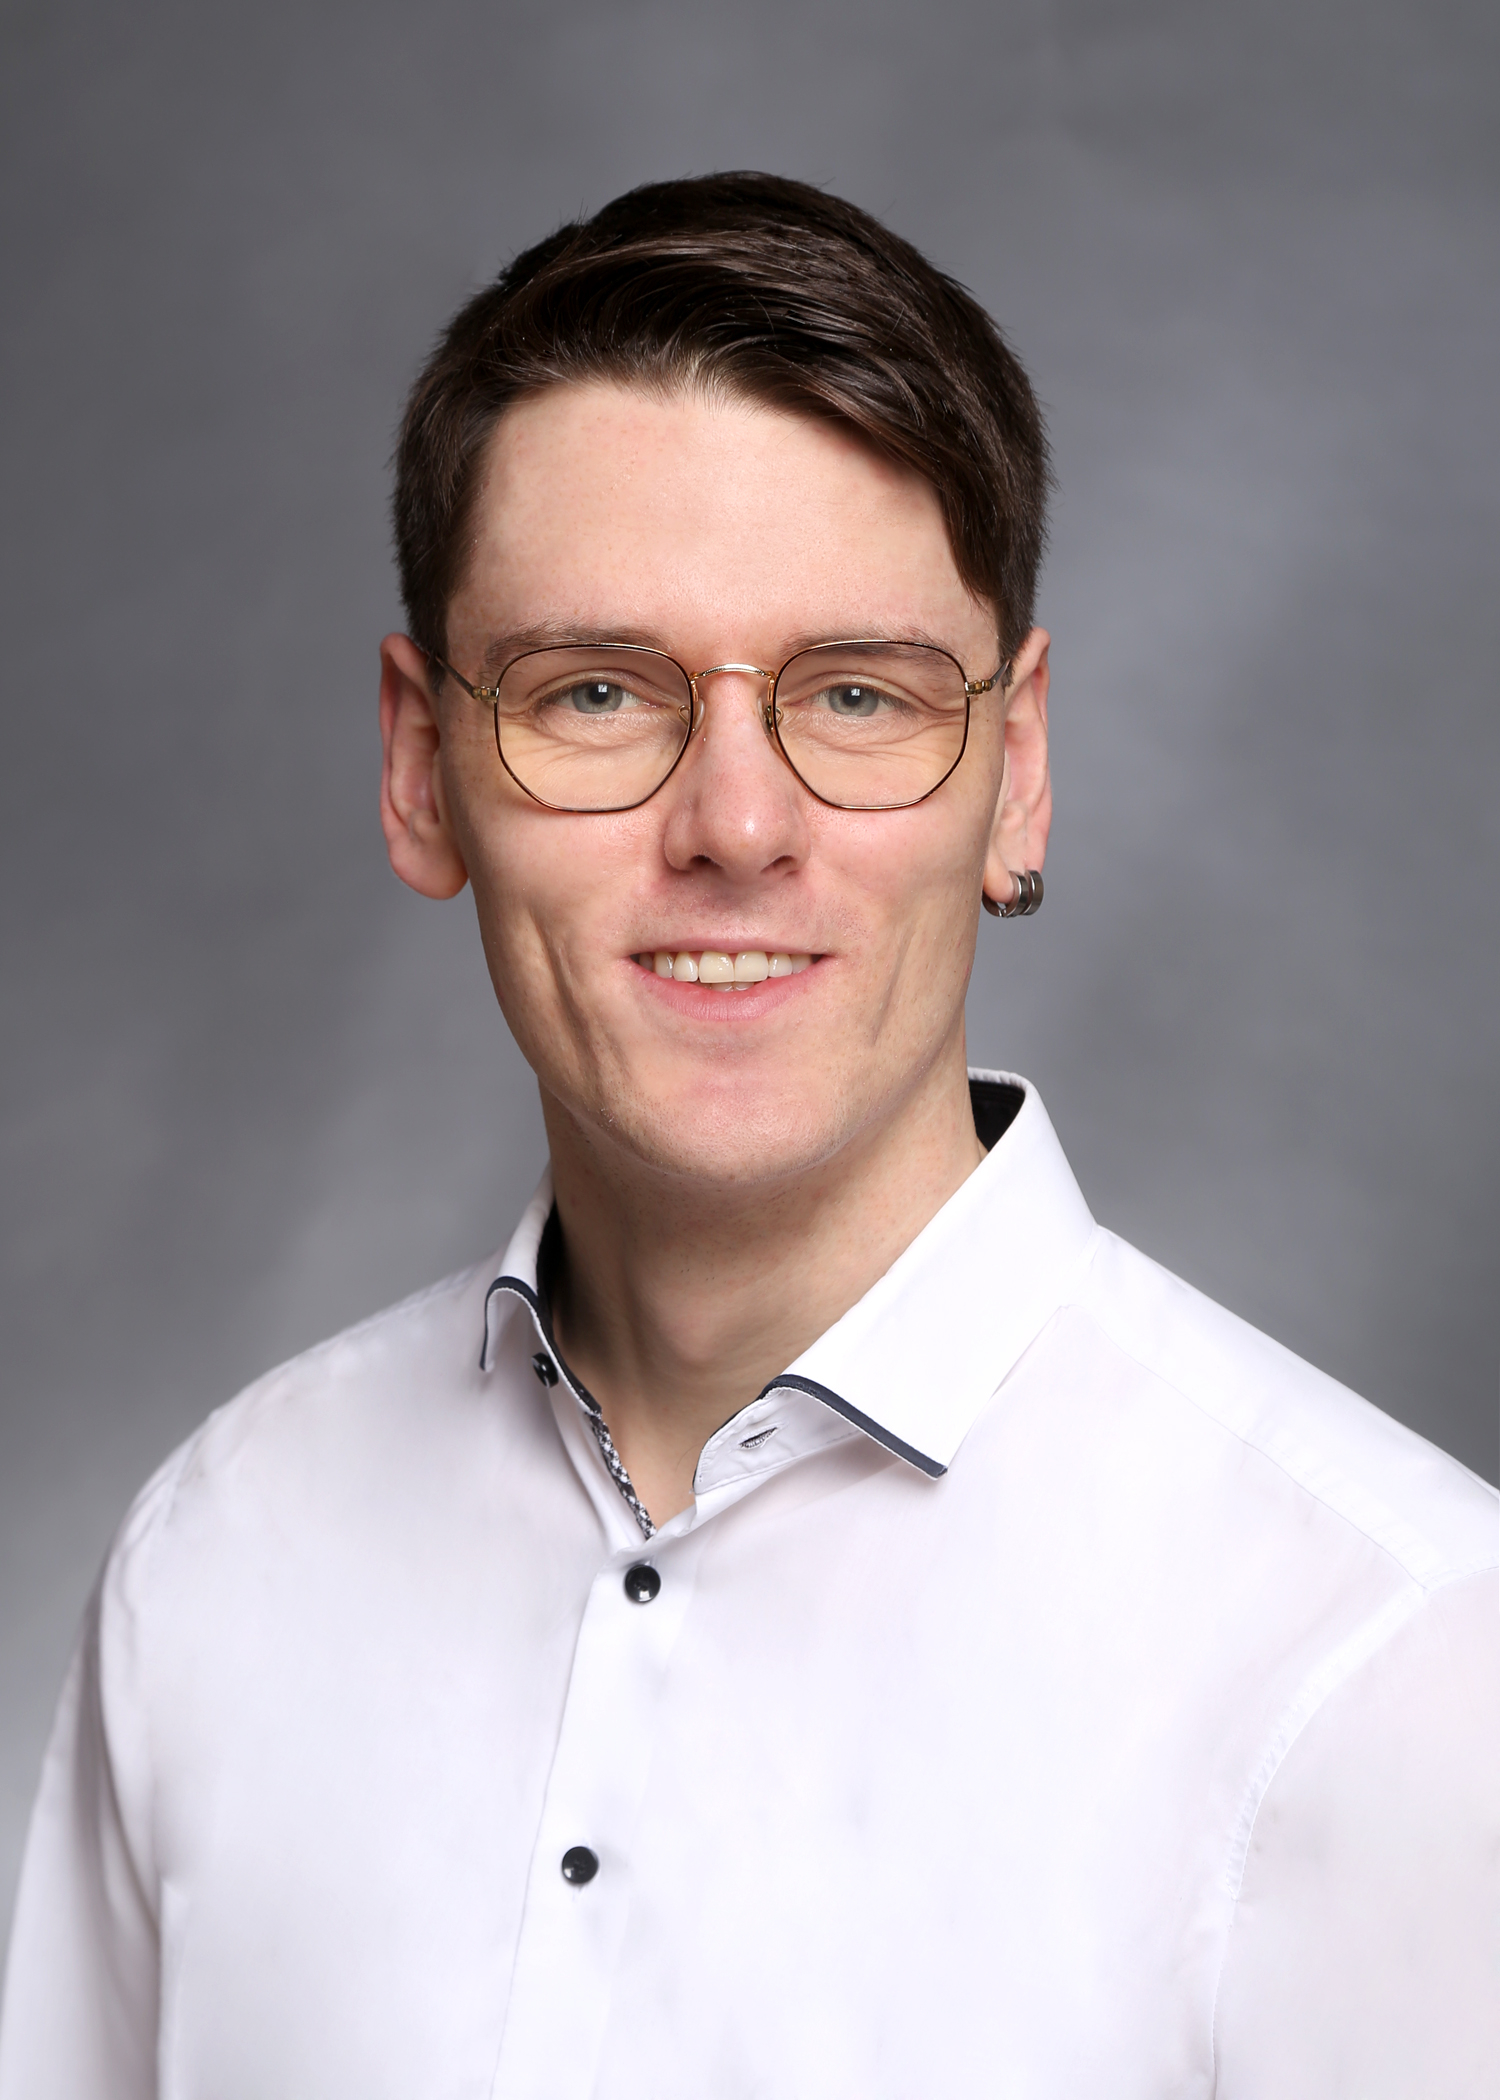
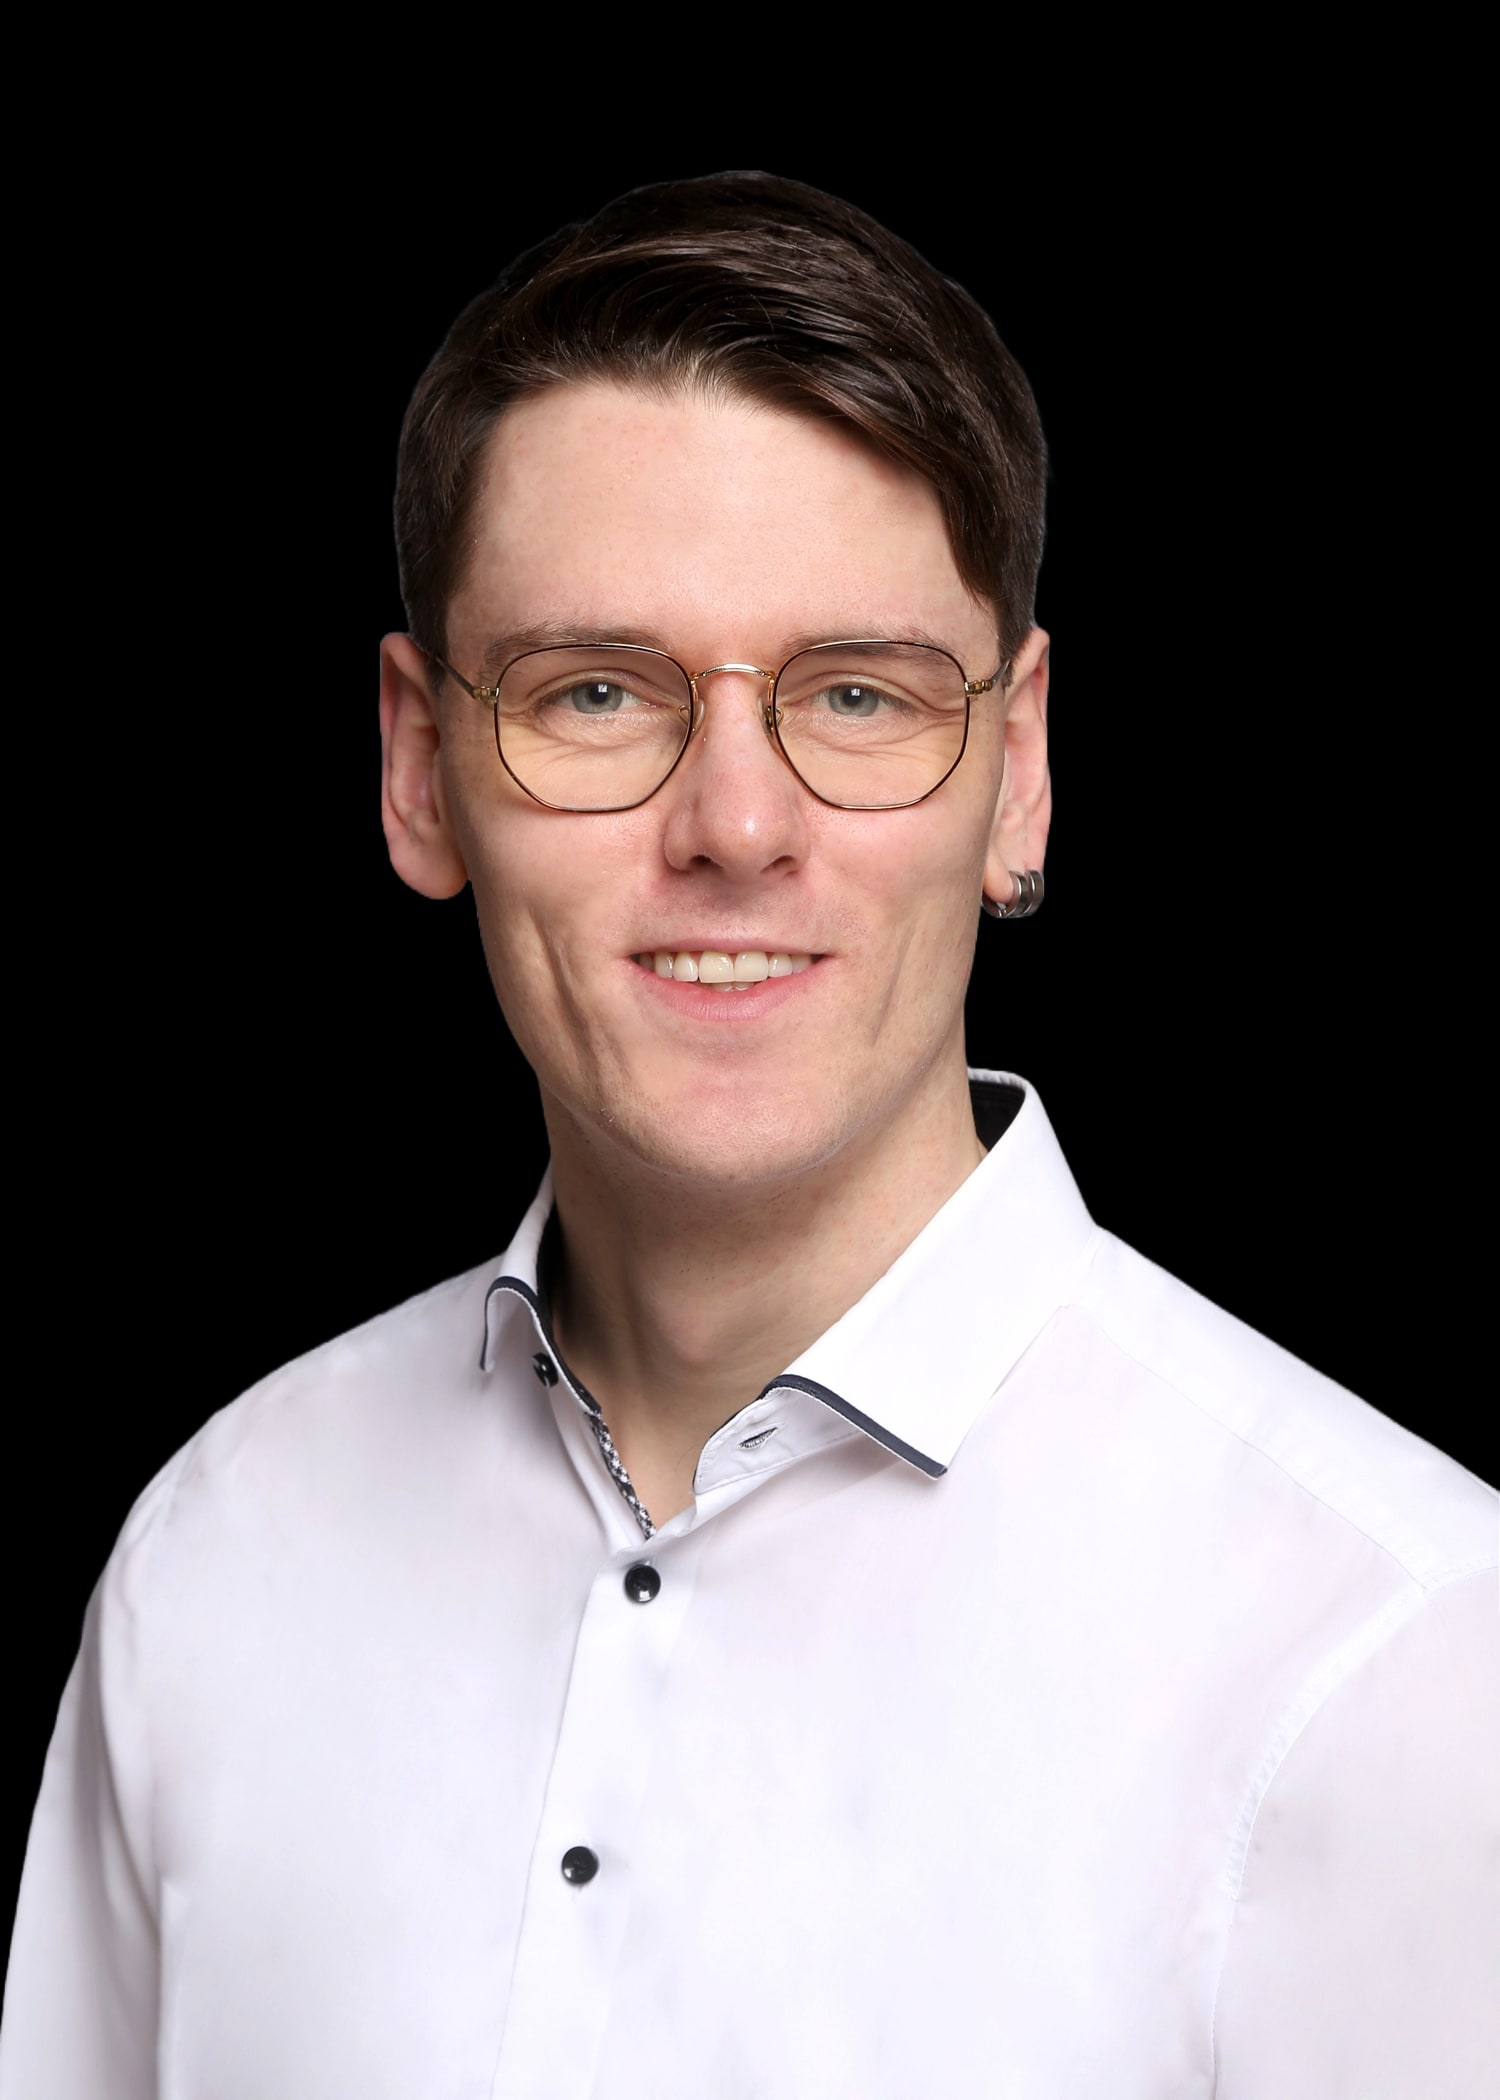
Use real business address, portrait and verified contact data
Replace the Impressum/Datenschutz street placeholder (Musterstraße 1) with the real address (Elbinger Straße 19, 21493 Schwarzenbek) and flip the now-verified street, postal code and phone on in the SEO config and Organization JSON-LD. Swap the gray-studio portrait for the black-background editorial shot that matches the dark About/Contact aesthetic.

diff --git a/src/lib/seo.ts b/src/lib/seo.ts
@@ -5,13 +5,10 @@
  * `~/lib/jsonld` read from this config — changing values here
  * propagates through every page.
  *
- * TODO(real data): the Impressum + Contact section still carry
- * placeholders (street, phone, USt-IdNr, social URLs). They're
- * intentionally absent from the config below so Google + AI search
- * engines don't cache wrong data. Once issues #5, #6 and #7 land:
- *   - flip `address.streetAddress` + `postalCode` on
- *   - add `telephone` + `vatID`
- *   - populate `socials.linkedin` / `.github` / `.xing`
+ * Street address, postal code, phone and social URLs are now the real
+ * verified data (matches the Impressum). The only remaining placeholder
+ * is the USt-IdNr — kept off the config until a real VAT ID exists so
+ * Google + AI search engines don't cache a fake one (add `vatID` then).
  */
 export const siteConfig = {
   /** Brand name as it should appear in search results. */
@@ -29,6 +26,8 @@ export const siteConfig = {
   },
   /** Verified contact channel. Safe to publish in schema. */
   email: "kontakt@tracht-digital.de",
+  /** Verified phone (WhatsApp). E.164-friendly formatting for schema. */
+  telephone: "+49 178 8224022",
   /** Legal entity behind the brand. */
   legalName: "Julian Tracht",
   founder: {
@@ -36,16 +35,13 @@ export const siteConfig = {
     jobTitle: "Inhaber & Entwickler",
     sameAs: [] as string[], // populated from socials below post-launch
   },
-  /**
-   * Verified location is the city only (Schwarzenbek bei Hamburg).
-   * Real street address pending Impressum cleanup (#5).
-   */
+  /** Verified business address (matches the Impressum). */
   address: {
+    streetAddress: "Elbinger Straße 19",
+    postalCode: "21493",
     addressLocality: "Schwarzenbek",
     addressRegion: "Schleswig-Holstein",
     addressCountry: "DE",
-    // streetAddress: "...",  // pending #5
-    // postalCode: "21493",   // matches Impressum but kept off until real street lands
   },
   /** Service-area for ProfessionalService schema. */
   areaServed: ["Hamburg", "Schwarzenbek", "Norddeutschland", "Deutschland"],

diff --git a/src/lib/jsonld.ts b/src/lib/jsonld.ts
@@ -36,8 +36,8 @@ export function personSchema() {
 /**
  * Organization (+ ProfessionalService traits). Search engines treat
  * ProfessionalService as a LocalBusiness subtype, which is what we
- * actually are — but emit it without the street/phone until those
- * Impressum placeholders are replaced (see seo.ts TODO).
+ * actually are — now emitted with the verified street, postal code and
+ * phone (they match the Impressum).
  */
 export function organizationSchema() {
   const socials = Object.values(siteConfig.socials).filter(Boolean) as string[];
@@ -50,10 +50,13 @@ export function organizationSchema() {
     legalName: siteConfig.legalName,
     url: siteConfig.url,
     email: `mailto:${siteConfig.email}`,
+    telephone: siteConfig.telephone,
     founder: { "@id": `${siteConfig.url}/#person` },
     areaServed: siteConfig.areaServed.map((a) => ({ "@type": "Place", name: a })),
     address: {
       "@type": "PostalAddress",
+      streetAddress: siteConfig.address.streetAddress,
+      postalCode: siteConfig.address.postalCode,
       addressLocality: siteConfig.address.addressLocality,
       addressRegion: siteConfig.address.addressRegion,
       addressCountry: siteConfig.address.addressCountry,
